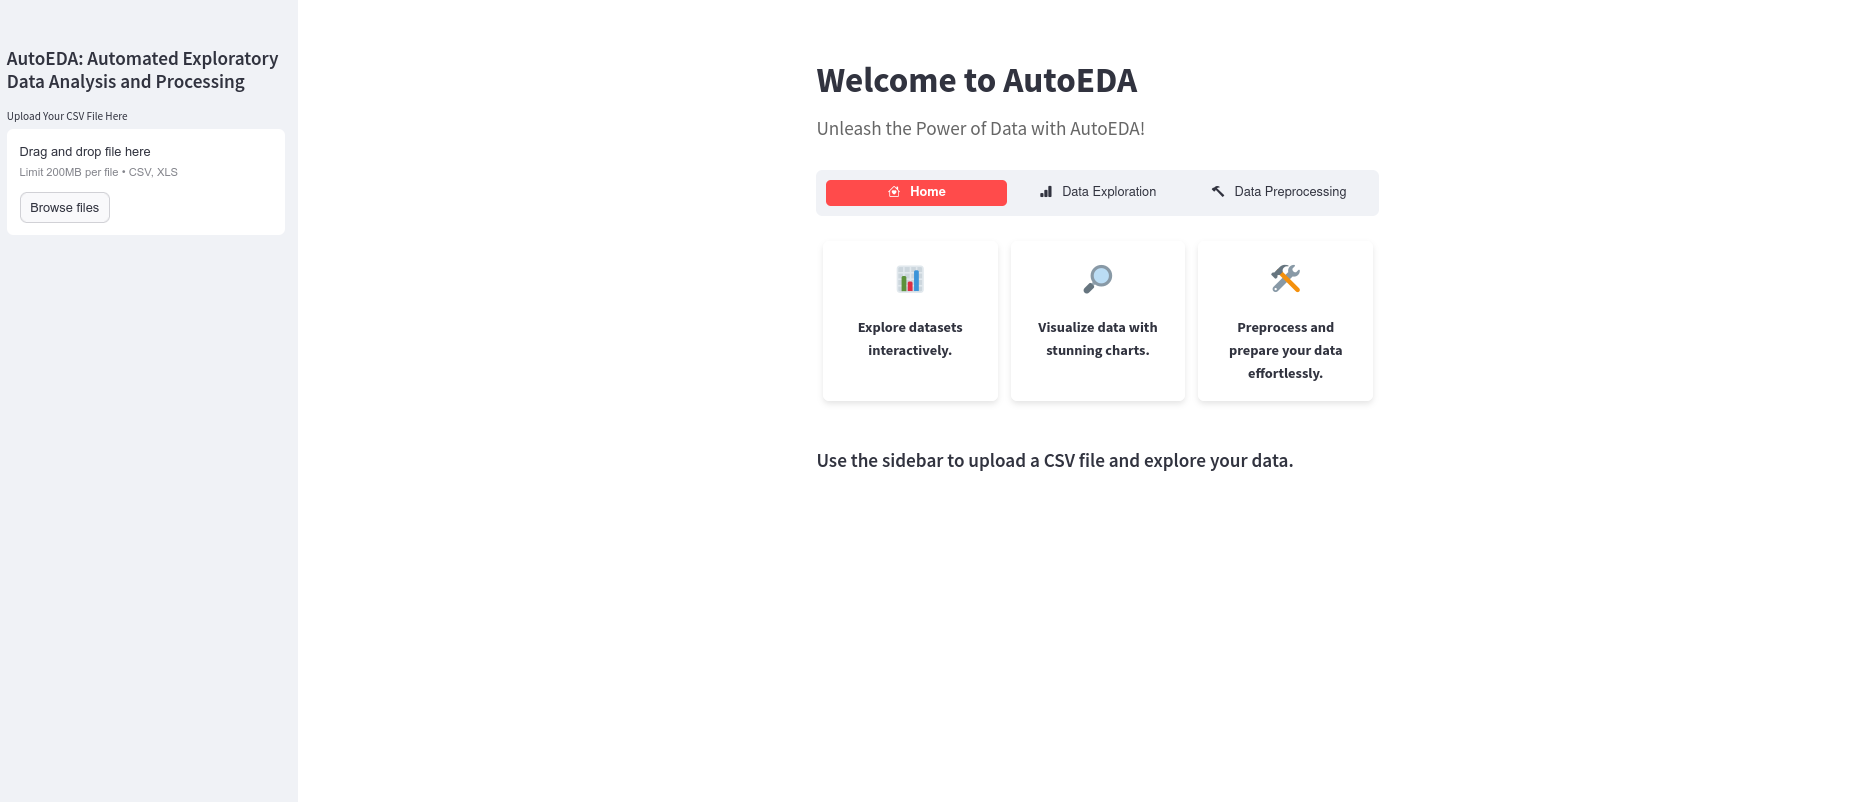
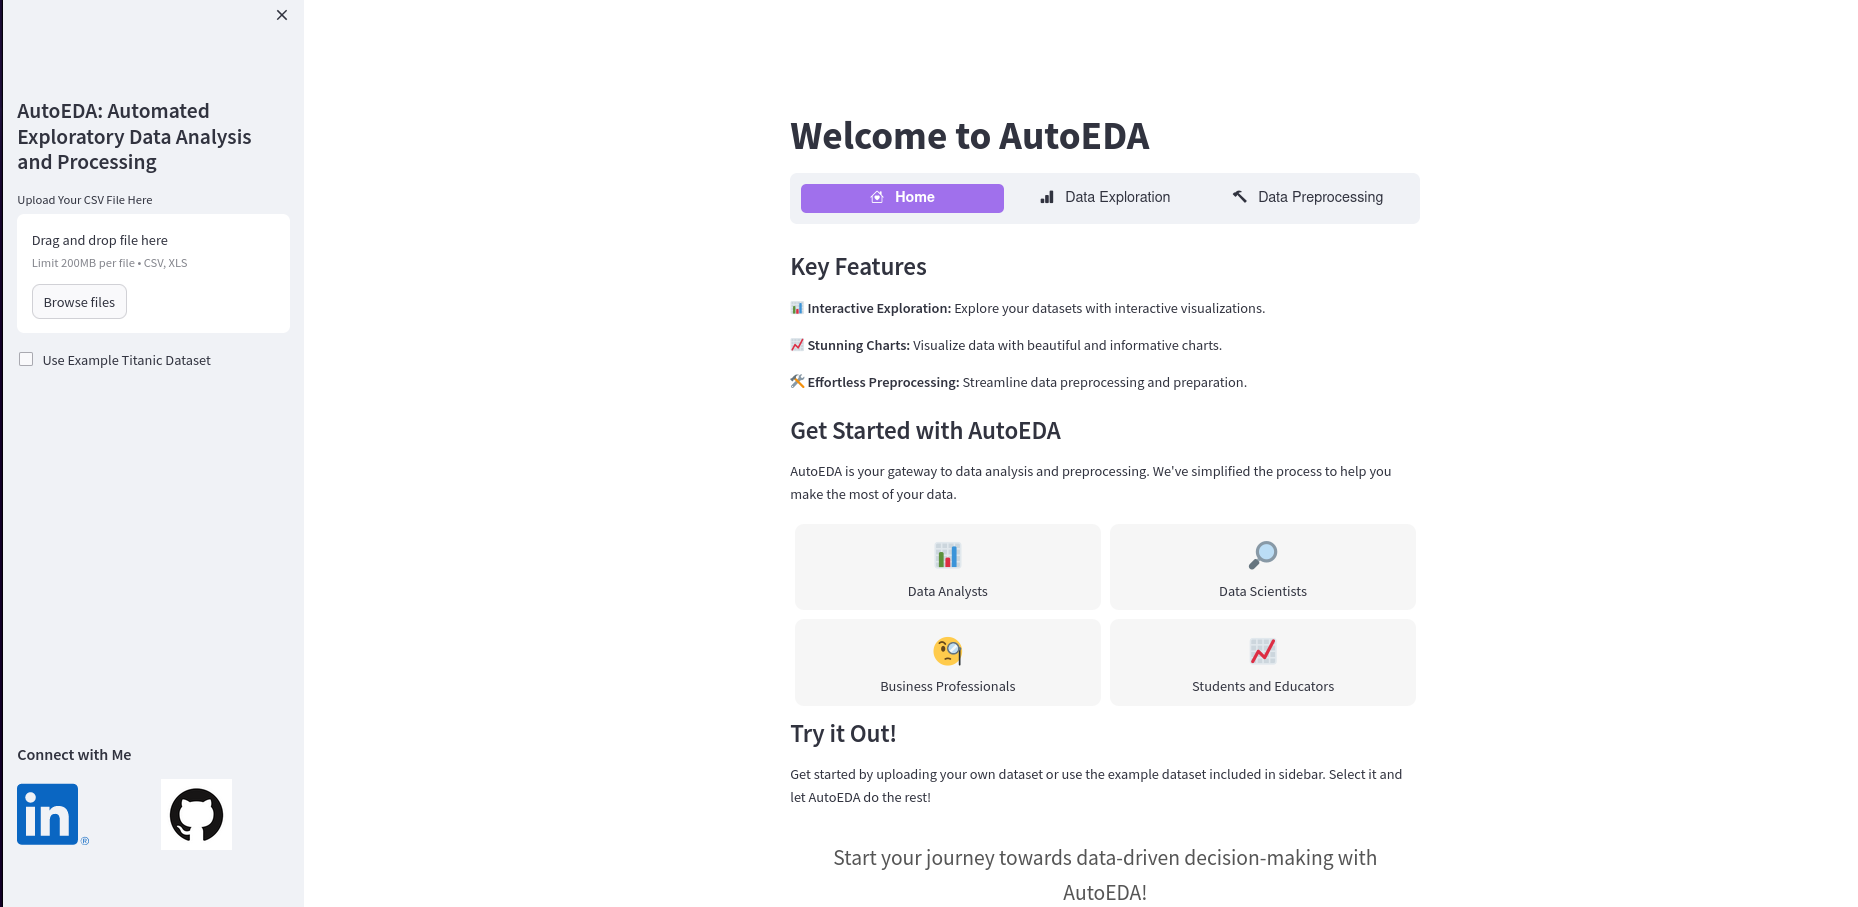
updated readme and added requirements file

diff --git a/readme.md b/readme.md
@@ -19,15 +19,12 @@ This is the home screen of the web application. From here, you can upload any da
 
 - Automated Data Preprocessing: Upcoming feature! Automate data preprocessing steps, including handling missing data, encoding categorical variables, scaling, and more.
 
-- Log of Preprocessing Steps: Keep a log of the preprocessing steps performed on your dataset, making it easy to track and reproduce your data preparation process.
 
 ## Why AutoEDA?
 
 - Efficiency: AutoEDA automates routine EDA tasks, saving you time and effort.
 
 - Interactivity: Visualize your data interactively to gain insights quickly.
-
-- Reproducibility: Maintain a log of data preprocessing steps for transparency and reproducibility.
 
 - User-Friendly: No coding required. All tasks can be performed using the user-friendly web interface.
 
@@ -37,24 +34,41 @@ This is the home screen of the web application. From here, you can upload any da
 
 **Data Exploration and Visualization:** Users can explore numerical and categorical features, create histograms, scatter plots, and other visualizations.
 
+**Data Preprocessing**: Users can now perform data preprocessing tasks, including handling missing data, encoding categorical variables,feature scaling, identifying and handling outliers and more, directly from the web interface. This streamlines the data preparation process and saves time.
 ## Roadmap
 
-I am actively working on implementing the data preprocessing feature. Soon, you'll be able to perform tasks like handling missing data, encoding categorical variables, and more, directly from the web interface. This will further simplify your data preparation process.
+I am actively working on enhancing and expanding the data preprocessing feature, as well as adding more features to the application. My goal is to continually improve the user experience and provide a comprehensive set of tools for data analysis and preprocessing. I'm dedicated to making the project even more powerful and user-friendly, so stay tuned for exciting updates and improvements! Your feedback and suggestions are highly appreciated as they help shape the future of this project.
 
 
 ## Try AutoEDA
 
-I invite you to try AutoEDA for yourself. Upload your dataset, explore its features, and visualize the data. We appreciate your feedback and suggestions to make AutoEDA even better.
+I invite you to try AutoEDA for yourself. Upload your dataset, explore its features, and visualize the data. I appreciate your feedback and suggestions to make AutoEDA even better.
 
-Install the necessary libraries
+- Make sure you have Python 3 installed.
 
-`pip install pandas matplotlib numpy plotly streamlit seaborn`
+- Clone this repository to your local machine.
 
-To start the application, just run the following line in terminal
+- Open your command line or terminal.
 
-`streamlit run main.py`
+- Navigate to the project directory.
+
+- Run the following command to install the required Python libraries:
+
+```sh 
+pip install -r requirements.txt
+```
+
+- To start the application, just run the following line in terminal
+
+```sh
+streamlit run main.py
+```
 
 This will run the web application on your default web browser
 
 ## Contibutions
 AutoEDA is an open-source project, and I welcome contributions from the community. You can help by reporting issues, contributing code, or suggesting new features.
+
+
+
+
